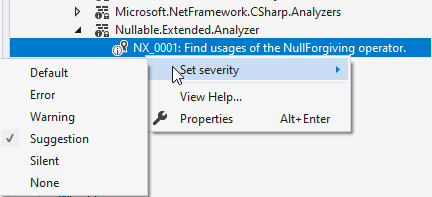
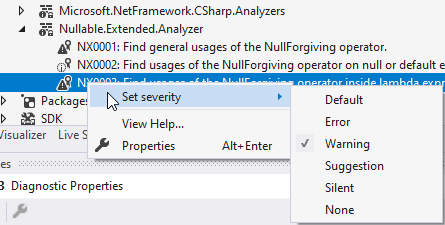
Align diagnostic id format with VS, report proper location for the null forgiving operator.

diff --git a/src/Nullable.Extended.Analyzer/Nullable.Extended.Analyzer/NullForgivingDetectionAnalyzer.cs b/src/Nullable.Extended.Analyzer/Nullable.Extended.Analyzer/NullForgivingDetectionAnalyzer.cs
@@ -13,9 +13,9 @@ namespace Nullable.Extended.Analyzer
     [DiagnosticAnalyzer(LanguageNames.CSharp)]
     public class NullForgivingDetectionAnalyzer : DiagnosticAnalyzer
     {
-        public const string GeneralDiagnosticId = "NX_0001";
-        public const string NullOrDefaultDiagnosticId = "NX_0002";
-        public const string LambdaDiagnosticId = "NX_0003";
+        public const string GeneralDiagnosticId = "NX0001";
+        public const string NullOrDefaultDiagnosticId = "NX0002";
+        public const string LambdaDiagnosticId = "NX0003";
 
         private const string GeneralTitle = "Find general usages of the NullForgiving operator.";
         private const string NullOrDefaultTitle = "Find usages of the NullForgiving operator on null or default expression.";
@@ -37,21 +37,21 @@ namespace Nullable.Extended.Analyzer
 
         private void OnSuppressNullableWarningExpression(SyntaxNodeAnalysisContext context)
         {
-            var node = context.Node;
+            var node = (PostfixUnaryExpressionSyntax)context.Node;
 
             if (IsNullOrDefaultExpression(node))
             {
-                context.ReportDiagnostic(Diagnostic.Create(NullOrDefaultRule, node.GetLocation()));
+                context.ReportDiagnostic(Diagnostic.Create(NullOrDefaultRule, node.GetDiagnosticLocation()));
                 return;
             }
 
             if (IsInsideLambdaExpression(node))
             {
-                context.ReportDiagnostic(Diagnostic.Create(LambdaRule, node.GetLocation()));
+                context.ReportDiagnostic(Diagnostic.Create(LambdaRule, node.GetDiagnosticLocation()));
                 return;
             }
 
-            context.ReportDiagnostic(Diagnostic.Create(GeneralRule, node.GetLocation()));
+            context.ReportDiagnostic(Diagnostic.Create(GeneralRule, node.GetDiagnosticLocation()));
         }
 
         private bool IsInsideLambdaExpression(SyntaxNode node)
@@ -86,6 +86,11 @@ namespace Nullable.Extended.Analyzer
 
     internal static class ExtensionMethods
     {
+        public static Location GetDiagnosticLocation(this PostfixUnaryExpressionSyntax node)
+        {
+            return node.OperatorToken.GetLocation();
+        }
+
         public static IEnumerable<SyntaxNode> SelfAndDescendants(this SyntaxNode? node)
         {
             while (node != null)

diff --git a/src/Nullable.Extended.Analyzer/Nullable.Extended.Analyzer.Test/NullForgivingDetectionTests.cs b/src/Nullable.Extended.Analyzer/Nullable.Extended.Analyzer.Test/NullForgivingDetectionTests.cs
@@ -25,7 +25,7 @@ namespace Nullable.Extended.Analyzer.Test
 @"class C {
     void M(object? item)
     {
-        {|#0:item!|}.ToString();
+        item{|#0:!|}.ToString();
     }
 }";
             var expected = new[]
@@ -39,16 +39,13 @@ namespace Nullable.Extended.Analyzer.Test
         [TestMethod]
         public async Task NullForgivingDetectOnNullOrDefault()
         {
-            var item = default(string)!;
-            item = null!;
-
             const string source =
 @"class C {
     string M()
     {
-        string item = {|#0:null!|};
-        item = {|#1:default!|};
-        item = {|#2:default(string)!|};
+        string item = null{|#0:!|};
+        item = default{|#1:!|};
+        item = default(string){|#2:!|};
         return item;
     }
 }";
@@ -65,9 +62,6 @@ namespace Nullable.Extended.Analyzer.Test
         [TestMethod]
         public async Task NullForgivingDetectInLambda()
         {
-            var item = default(string)!;
-            item = null!;
-
             const string source = @"
 using System.Collections.Generic;
 using System.Linq;
@@ -77,10 +71,10 @@ class C {
     {
         var x = Enumerable.Range(0, 10)
             .Select(i => ((object?)i.ToString(), (object?)i.ToString()))
-            .Select(item => {|#0:item.Item1!|}.ToString() + {|#1:item.Item2!|}.ToString())
-            .FirstOrDefault();
+            .Select(item => item.Item1{|#0:!|}.ToString() + item.Item2{|#1:!|}.ToString())
+            .FirstOrDefault(){|#2:!|};
 
-        return {|#2:x!|};
+        return x{|#3:!|};
     }
 }";
             var expected = new[]
@@ -88,6 +82,7 @@ class C {
                 DiagnosticResult.CompilerError(NullForgivingDetectionAnalyzer.LambdaDiagnosticId).WithLocation(0),
                 DiagnosticResult.CompilerError(NullForgivingDetectionAnalyzer.LambdaDiagnosticId).WithLocation(1),
                 DiagnosticResult.CompilerError(NullForgivingDetectionAnalyzer.GeneralDiagnosticId).WithLocation(2),
+                DiagnosticResult.CompilerError(NullForgivingDetectionAnalyzer.GeneralDiagnosticId).WithLocation(3),
             };
 
             await VerifyCS.VerifyAnalyzerAsync(source, expected, _diagnosticOptions);

diff --git a/src/IntegrationTest/IntegrationTest/Class1.cs b/src/IntegrationTest/IntegrationTest/Class1.cs
@@ -1,5 +1,6 @@
 using System;
 using System.Collections.Generic;
+using System.Linq;
 using System.Text;
 
 namespace IntegrationTest
@@ -8,17 +9,22 @@ namespace IntegrationTest
     {
         public void M1(string value1, object value2)
         {
-
         }
 
-        public void M2(object? value)
+        public void M2(object? value1, object? value2)
         {
-            var text = value?.ToString();
-            
+            var text = value1?.ToString();
+
             if (text == null)
                 return;
 
-            M1(text, value);
+            M1(text, value1);
+
+            var x = Enumerable.Range(0, 1)
+                .Select(i => value2)
+                .Where(item => item != null)
+                .Select(item => item!.ToString())
+                .FirstOrDefault()!;
         }
     }
 }

diff --git a/README.md b/README.md
@@ -52,9 +52,9 @@ Also since this analyzer will suppress many common false positives, some of them
 Since it's hard to find the null forgiving operators in code, this analyzer comes with a set of checks to locate all of them, so you can easily judge if they are still needed.
 
 Occurrences are grouped into three diagnostics, to reflect their different contexts - e.g. general usages can be mostly avoided, while inside lambda expressions they are often unavoidable.
-- NX_0001 Find general usages of the NullForgiving operator.
-- NX_0002 Find usages of the NullForgiving operator on the `null` or `default` literals.
-- NX_0003 Find usages of the NullForgiving operator inside lambda expressions.
+- NX0001 Find general usages of the NullForgiving operator.
+- NX0002 Find usages of the NullForgiving operator on the `null` or `default` literals.
+- NX0003 Find usages of the NullForgiving operator inside lambda expressions.
 
 Simply turn the severity, which is `None` by default, to e.g. `Warning`, to list all usages of the null forgiving operator.
 
